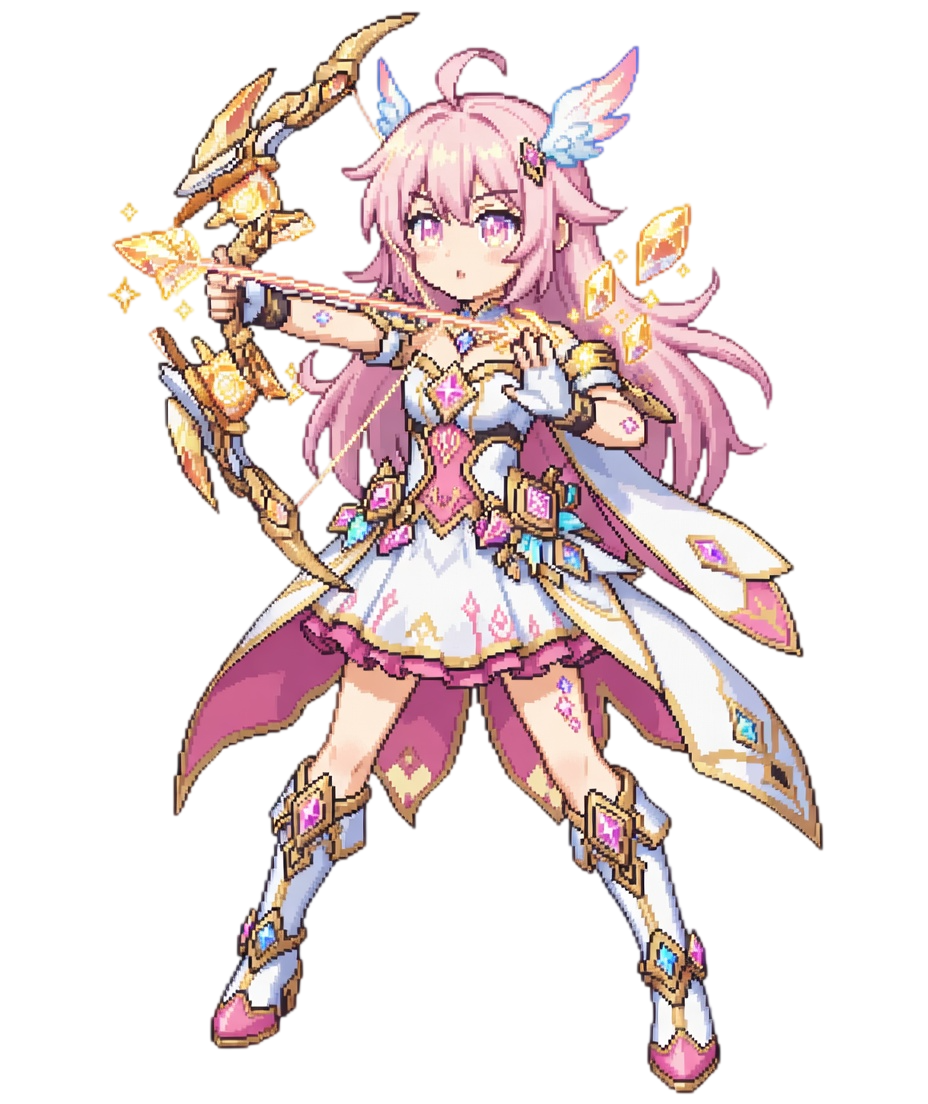
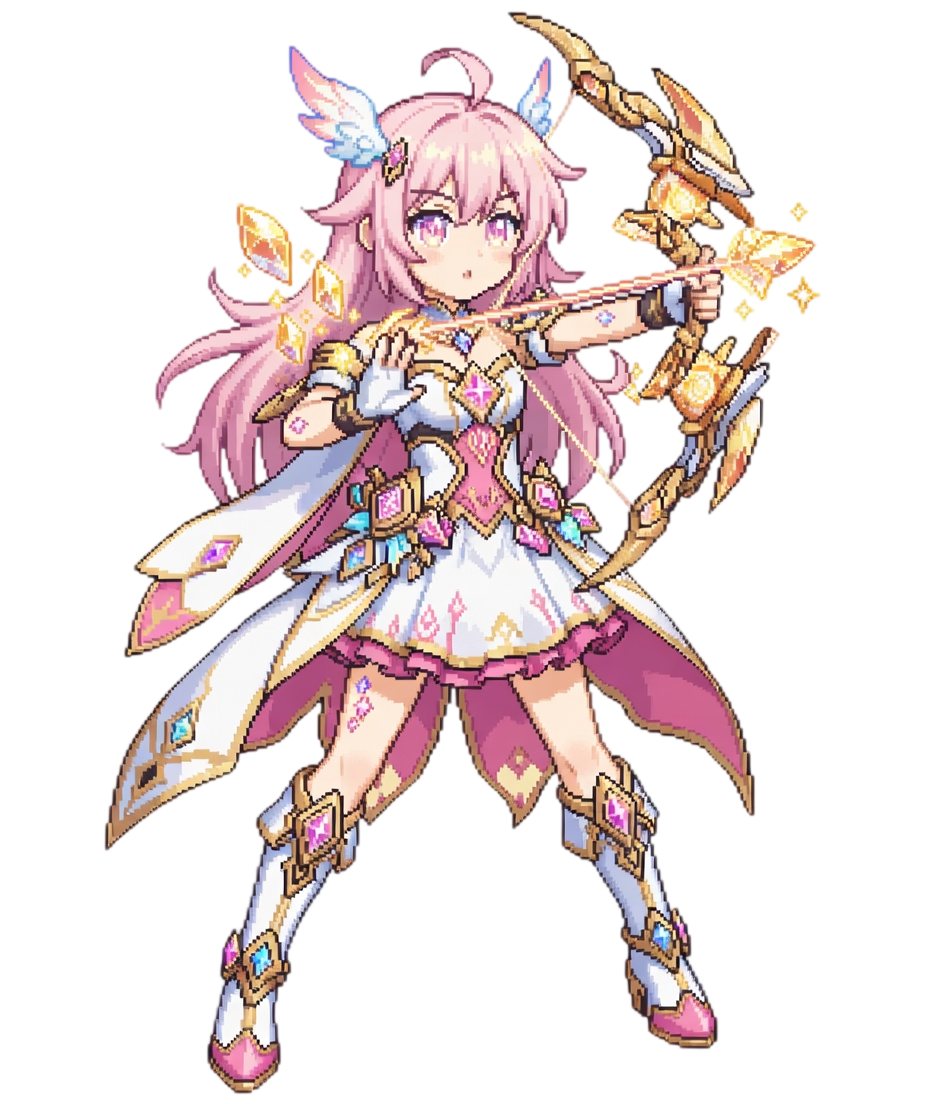
feat(unikowave): mini-boss 3x, mais fogo/esteira, lasers dos olhos e reações da Mizuki
- DarkCatBot gigante agora aparece até 3x (combos 50/100/150)
- Fogo: muito mais faíscas pequenas (tamanhos variados, balançam ao subir)
- Esteira: gradiente vertical, sombra interna no topo/base e treads com relevo
  (sombra + corpo + brilho) → mais profundidade
- PersonagemLinnea.png trocada pela versão espelhada (horizontal) do usuário
- Boss agora dispara DOIS lasers vermelhos saindo dos OLHOS; mais rajadas por
  ataque (6) e dano por raio menor; brilho vermelho nos olhos
- Durante o ataque do boss a Mizuki fica com a reação Chateada, flutuando no ar
  e paralisada (sem aceitar input)
- Intro: no countdown a Mizuki aparece Alegre (saltitando) antes do jogo começar

diff --git a/public/unikowave/index.html b/public/unikowave/index.html
@@ -2443,10 +2443,12 @@ let bgMode = localStorage.getItem('dw_bgmode') || 'effects';
 // ─── MODO DE JOGO (clássico = Teclado Estelar / wargame = Guerra Estelar) ───
 let gameMode = localStorage.getItem('dw_gamemode') || 'classic';
 // Sprites da Mizuki para o modo Guerra Estelar (só ela joga por enquanto)
-const WG_SPR = { run:new Image(), jump:new Image(), atk:new Image() };
+const WG_SPR = { run:new Image(), jump:new Image(), atk:new Image(), chateada:new Image(), alegre:new Image() };
 WG_SPR.run.src  = 'images/PersonagemLinnea.png'; // Mizuki (base/correndo)
 WG_SPR.jump.src = 'images/MizukiPulo.png';
 WG_SPR.atk.src  = 'images/MizukiAtaque.png';
+WG_SPR.chateada.src = 'images/PersonagemLinnea_Chateada.png'; // boss atacando: flutua chateada
+WG_SPR.alegre.src   = 'images/PersonagemLinnea_Alegre.png';   // intro do começo da partida
 
 // Minions (substituem as notas no Guerra Estelar): chão = comum, ar = voador (com asas)
 const WG_MINION = new Image();      WG_MINION.src      = 'images/DarkCatBotMinions.png';
@@ -7473,7 +7475,7 @@ const WG = {
 const WG_TRAVEL = 1.7;    // segundos que o inimigo leva entrando pela direita
 const WG_AIR_HOLD = 0.40; // tempo que a Mizuki fica na linha do ar após apertar W
 const C_GROUND = '#ff2e9a', C_AIR = '#28e0ff', C_HOLD = '#b020ff';
-const WG_BOLT_DMG = 4;    // % de vida que cada raio do boss tira
+const WG_BOLT_DMG = 3;    // % de vida que cada raio do boss tira (mais raios, dano por raio menor)
 
 // ── Escala da DIFICULDADE no Guerra Estelar ──
 // A dificuldade escolhida na tela de play também vale aqui: além de mais notas
@@ -7594,7 +7596,7 @@ function wgInit(){
   WG.waving=false; WG.waveT=0; WG.waveShot=false; WG.waveBeam=false; WG.prevT=performance.now()*0.001;
   WG.judge=null; WG.fireH=null; WG.embers.length=0; WG.fireRecolorAt=30;
   WG.fireLevel=null; WG.firePhase=0; WG._fireLastT=null; // intensidade do fogo cresce com o combo
-  WG.specialDone=false; WG.special=null; // evento do minion especial (combo 50)
+  WG.specialCount=0; WG.special=null; // evento do minion especial — até 3x (combo 50/100/150)
   wgHoldSfxStop();
   // Paleta do fogo a partir da capa (thumbnail) do vídeo da música
   WG.firePalette=null;
@@ -7626,6 +7628,7 @@ function wgTimeX(time, st){
 function wgAction(kind){
   if(gameState!=='playing') return;
   if(WG.waving || WG.phase==='done') return;        // onda final/derrota: não aceita input
+  if(WG.attack) return;                              // boss atacando: Mizuki paralisada (flutuando)
   if(WG.phase==='finisher'){ wgKick(); return; }     // no finisher qualquer tecla = chute
   // EVENTO ESPECIAL (combo 50): só o W (ar) bate no minion gigante; 15 acertos derrotam
   if(WG.phase==='special' && WG.special){
@@ -7887,31 +7890,58 @@ function wgDrawFire(top){
       const w = narrow ? cell*0.55 : cell+1;
       ctx.fillRect(narrow ? x*cell+(cell-w)/2 : x*cell, CH-(r+1)*cell, w, cell+1);
     }
-    // solta faísca das colunas mais altas — mais faíscas quando o fogo está intenso (combo alto)
-    if(h>rows*(0.72-0.16*lvl) && Math.random()<0.04*lvl) WG.embers.push({x:x*cell+cell/2, y:CH-h*cell, vx:(Math.random()-0.5)*22, vy:-(24+Math.random()*46)*(0.7+lvl*0.5), life:1});
+    // solta MUITAS faíscas pequenas das colunas (mais quando o fogo está intenso)
+    if(h>rows*(0.55-0.2*lvl) && Math.random()<0.13*lvl){
+      const tiny=Math.random()<0.7; // maioria minúscula
+      WG.embers.push({
+        x:x*cell+cell/2 + (Math.random()-0.5)*cell, y:CH-h*cell,
+        vx:(Math.random()-0.5)*(tiny?34:22), vy:-(18+Math.random()*52)*(0.7+lvl*0.5),
+        life:tiny?(0.55+Math.random()*0.45):1,
+        sz:tiny?(0.8+Math.random()*1.4):(2+Math.random()*2)
+      });
+    }
   }
-  // faíscas (partículas) subindo e sumindo
+  // faíscas (partículas) subindo, balançando e sumindo
   for(let i=WG.embers.length-1;i>=0;i--){
-    const e=WG.embers[i]; e.y+=e.vy*0.016; e.x+=e.vx*0.016; e.vy*=0.99; e.life-=0.025;
+    const e=WG.embers[i];
+    e.y+=e.vy*0.016; e.x+=(e.vx + Math.sin((CH-e.y)*0.05+e.x*0.02)*8)*0.016; e.vy*=0.99; e.life-=0.025;
     if(e.life<=0 || e.y<top-20){ WG.embers.splice(i,1); continue; }
     ctx.globalAlpha=Math.max(0,e.life); ctx.fillStyle=pal[Math.max(1,Math.round((P-1)*Math.min(1,e.life+0.2)))]||'#ffd27a';
-    const s=2+e.life*3; ctx.fillRect(e.x,e.y,s,s);
+    const s=(e.sz||2)*(0.5+e.life*0.7); ctx.fillRect(e.x,e.y,s,s);
   }
   ctx.globalAlpha=1;
 }
-// Esteira (chão) rolando pra ESQUERDA
+// Esteira (chão) rolando pra ESQUERDA — com sombra/profundidade
 function wgDrawBelt(gy,h){
   const glow=(typeof GFX!=='undefined'&&GFX.glow);
-  const bg=ctx.createLinearGradient(0,gy,0,gy+h); bg.addColorStop(0,'#2a1840'); bg.addColorStop(1,'#120a20');
+  // base com gradiente vertical (mais clara em cima, escura embaixo) → volume
+  const bg=ctx.createLinearGradient(0,gy,0,gy+h);
+  bg.addColorStop(0,'#3a2456'); bg.addColorStop(0.5,'#241338'); bg.addColorStop(1,'#0d0820');
   ctx.fillStyle=bg; ctx.fillRect(0,gy,CW,h);
   ctx.save(); ctx.beginPath(); ctx.rect(0,gy,CW,h); ctx.clip();
-  const seg=34, scroll=(animT*340)%seg; // rola p/ esquerda
-  ctx.strokeStyle='rgba(255,46,154,.45)'; ctx.lineWidth=3;
-  for(let x=CW - scroll; x>-seg; x-=seg){ ctx.beginPath(); ctx.moveTo(x,gy+3); ctx.lineTo(x-15,gy+h-3); ctx.stroke(); }
+  // sombra interna no topo (a esteira "afunda" sob o chão)
+  const sh=ctx.createLinearGradient(0,gy,0,gy+h*0.55);
+  sh.addColorStop(0,'rgba(0,0,0,.5)'); sh.addColorStop(1,'rgba(0,0,0,0)');
+  ctx.fillStyle=sh; ctx.fillRect(0,gy,CW,h*0.55);
+  // treads diagonais com RELEVO: sombra escura deslocada + faixa rosa + brilho fino
+  const seg=34, scroll=(animT*340)%seg;
+  for(let x=CW - scroll; x>-seg; x-=seg){
+    ctx.strokeStyle='rgba(0,0,0,.55)'; ctx.lineWidth=6; ctx.beginPath(); ctx.moveTo(x+3,gy+4); ctx.lineTo(x-12,gy+h-1); ctx.stroke();      // sombra
+    ctx.strokeStyle='rgba(255,46,154,.5)'; ctx.lineWidth=3; ctx.beginPath(); ctx.moveTo(x,gy+3);   ctx.lineTo(x-15,gy+h-3); ctx.stroke();   // corpo
+    ctx.strokeStyle='rgba(255,150,215,.65)'; ctx.lineWidth=1; ctx.beginPath(); ctx.moveTo(x-1,gy+3); ctx.lineTo(x-16,gy+h-3); ctx.stroke();  // brilho
+  }
+  // sombra interna na base também (escurece o pé da esteira)
+  const sh2=ctx.createLinearGradient(0,gy+h*0.5,0,gy+h);
+  sh2.addColorStop(0,'rgba(0,0,0,0)'); sh2.addColorStop(1,'rgba(0,0,0,.45)');
+  ctx.fillStyle=sh2; ctx.fillRect(0,gy+h*0.5,CW,h*0.5);
   ctx.restore();
-  ctx.shadowColor='rgba(0,240,255,.7)'; ctx.shadowBlur=glow?12:0;
-  ctx.strokeStyle='rgba(0,240,255,.9)'; ctx.lineWidth=3; ctx.beginPath(); ctx.moveTo(0,gy); ctx.lineTo(CW,gy); ctx.stroke();
-  ctx.strokeStyle='rgba(255,46,154,.9)'; ctx.beginPath(); ctx.moveTo(0,gy+h); ctx.lineTo(CW,gy+h); ctx.stroke();
+  // bordas neon + linha de highlight logo abaixo do topo
+  ctx.shadowColor='rgba(0,240,255,.7)'; ctx.shadowBlur=glow?14:0;
+  ctx.strokeStyle='rgba(0,240,255,.95)'; ctx.lineWidth=3; ctx.beginPath(); ctx.moveTo(0,gy); ctx.lineTo(CW,gy); ctx.stroke();
+  ctx.shadowBlur=0;
+  ctx.strokeStyle='rgba(190,245,255,.35)'; ctx.lineWidth=1; ctx.beginPath(); ctx.moveTo(0,gy+2); ctx.lineTo(CW,gy+2); ctx.stroke();
+  ctx.shadowColor='rgba(255,46,154,.7)'; ctx.shadowBlur=glow?12:0;
+  ctx.strokeStyle='rgba(255,46,154,.9)'; ctx.lineWidth=3; ctx.beginPath(); ctx.moveTo(0,gy+h); ctx.lineTo(CW,gy+h); ctx.stroke();
   ctx.shadowBlur=0;
 }
 
@@ -8109,8 +8139,8 @@ function drawWargame(t){
     }
     // ── EVENTO ESPECIAL (combo 50): minion gigante. Para de nascer minion e some
     //    o boss; o jogador bate 15x com W (ar) pra derrotá-lo e o jogo segue. ──
-    if(WG.phase==='play' && !WG.attack && !WG.bossDefeated && !WG.specialDone && (score.combo||0)>=50){
-      WG.specialDone=true; WG.phase='special';
+    if(WG.phase==='play' && !WG.attack && !WG.bossDefeated && WG.specialCount<3 && (score.combo||0) >= 50*(WG.specialCount+1)){
+      WG.specialCount++; WG.phase='special';
       WG.special={ hits:0, need:15, born:animT, defeated:false, defeatT:0, x:CW*0.56, y:WG.airNoteY, arrows:[] };
       WG.holds.air=null; WG.holds.ground=null; wgSyncHoldSfx();
       for(const n of chart){ if((n.state==='pending'||n.state==='holding') && n.hitTime<=st+1.9) n.state='gone'; } // limpa a tela
@@ -8158,8 +8188,8 @@ function drawWargame(t){
       const A=WG.attack; A.t+=dt;
       if(A.ph==='in'){ WG.bossX+=(frontX-WG.bossX)*Math.min(1,dt*6); if(A.t>0.55){A.ph='fire';A.t=0;A.nextFire=0.2;} }
       else if(A.ph==='fire'){ WG.bossX+=(frontX-WG.bossX)*Math.min(1,dt*6);
-        if(A.t>=A.nextFire && A.fired<4){ wgFireBolt(); A.fired++; A.nextFire=A.t+0.6; }
-        if(A.fired>=4 && A.t>A.nextFire+0.2){ A.ph='out'; A.t=0; } }
+        if(A.t>=A.nextFire && A.fired<6){ wgFireBolt(); A.fired++; A.nextFire=A.t+0.42; }
+        if(A.fired>=6 && A.t>A.nextFire+0.2){ A.ph='out'; A.t=0; } }
       else { WG.bossX+=(homeX-WG.bossX)*Math.min(1,dt*6); if(A.t>0.6){ WG.attack=null; WG.attacksDone++; } }
     } else if(WG.phase==='finisher' && !WG.bossDefeated){
       WG.bossX+=(CW*0.60-WG.bossX)*Math.min(1,dt*5); // boss bem na frente da Mizuki
@@ -8279,7 +8309,13 @@ function drawWargame(t){
   // ── Mizuki ──
   const holding = holdingAir||holdingGround;
   let spr=WG_SPR.run, drawX, feet, mzRot=0;
-  if(WG.waving){
+  if(gameState==='countdown'){
+    // INTRO: Mizuki alegre antes da partida começar (saltitando feliz)
+    spr=WG_SPR.alegre; drawX=WG.charX; feet=WG.floorFeet - Math.abs(Math.sin(animT*4))*12;
+  } else if(WG.attack){
+    // BOSS ATACANDO: Mizuki chateada, flutuando no ar e sem conseguir se mexer
+    spr=WG_SPR.chateada; drawX=WG.charX; feet=WG.airFeet - chH*0.14 + Math.sin(animT*1.8)*7; mzRot=Math.sin(animT*1.4)*0.05;
+  } else if(WG.waving){
     // finalização: voa pro alto/longe e flutua; ao atirar usa a pose de ataque
     const p1=Math.min(1,WG.waveT/1.4), e=1-Math.pow(1-p1,3);
     const sX=WG.charX+CW*0.30, sF=WG.floorFeet, fX=CW*0.20, fF=CH*0.34+chH*0.5;
@@ -8363,17 +8399,24 @@ function drawWargame(t){
   // efeitos compartilhados
   drawParticles(); drawRings(); drawJudgments(t);
 
-  // ── Lasers do boss (até a Mizuki) ──
+  // ── Lasers do boss: DOIS feixes vermelhos saindo dos OLHOS até a Mizuki ──
   for(const b of WG.bolts){
     const k=Math.max(0,1-b.t/0.45);
-    const x1=(b.ox||CW*0.82)-WG.charH*0.1, y1=WG.floorFeet-bossH*0.9, x2=drawX, y2=feet-chH*0.5;
-    // pontos da trajetória (zig-zag) reaproveitados pras duas passadas
-    const seg=7, pts=[[x1,y1]];
-    for(let i=1;i<seg;i++){ const tt=i/seg; pts.push([x1+(x2-x1)*tt+(Math.random()-0.5)*42, y1+(y2-y1)*tt+(Math.random()-0.5)*22]); }
-    pts.push([x2,y2]);
-    const stroke=(w,col,a)=>{ ctx.save(); ctx.globalAlpha=k*a; ctx.strokeStyle=col; ctx.lineWidth=w; ctx.lineCap='round'; ctx.lineJoin='round'; ctx.shadowColor='#ff2030'; ctx.shadowBlur=glow?22:0; ctx.beginPath(); ctx.moveTo(pts[0][0],pts[0][1]); for(let i=1;i<pts.length;i++) ctx.lineTo(pts[i][0],pts[i][1]); ctx.stroke(); ctx.restore(); };
-    stroke(14+10*k,'#ff2030',0.9);   // laser VERMELHO grosso
-    stroke(5+4*k,'#ffd0d0',1);       // núcleo claro
+    const cxB=(b.ox||CW*0.82), eyeY=WG.floorFeet*0.98 - bossH*0.62;
+    const eyes=[[cxB - bossW*0.12, eyeY],[cxB + bossW*0.12, eyeY]];
+    const x2=drawX, y2=feet-chH*0.5;
+    for(const [ex,ey] of eyes){
+      // feixe quase reto com leve tremor
+      const seg=6, pts=[[ex,ey]];
+      for(let i=1;i<seg;i++){ const tt=i/seg; pts.push([ex+(x2-ex)*tt+(Math.random()-0.5)*16, ey+(y2-ey)*tt+(Math.random()-0.5)*12]); }
+      pts.push([x2,y2]);
+      const stroke=(w,col,a)=>{ ctx.save(); ctx.globalAlpha=k*a; ctx.strokeStyle=col; ctx.lineWidth=w; ctx.lineCap='round'; ctx.lineJoin='round'; ctx.shadowColor='#ff2030'; ctx.shadowBlur=glow?20:0; ctx.beginPath(); ctx.moveTo(pts[0][0],pts[0][1]); for(let i=1;i<pts.length;i++) ctx.lineTo(pts[i][0],pts[i][1]); ctx.stroke(); ctx.restore(); };
+      stroke(9+7*k,'#ff2030',0.9);  // feixe vermelho
+      stroke(3+3*k,'#ffd0d0',1);    // núcleo claro
+      // brilho no olho (origem do laser)
+      ctx.save(); ctx.globalAlpha=k; ctx.fillStyle='#ff5a5a'; ctx.shadowColor='#ff2030'; ctx.shadowBlur=glow?18:0;
+      ctx.beginPath(); ctx.arc(ex,ey,4+3*k,0,Math.PI*2); ctx.fill(); ctx.restore();
+    }
   }
 
   // ── Balões de fala (boss + Mizuki) ──
